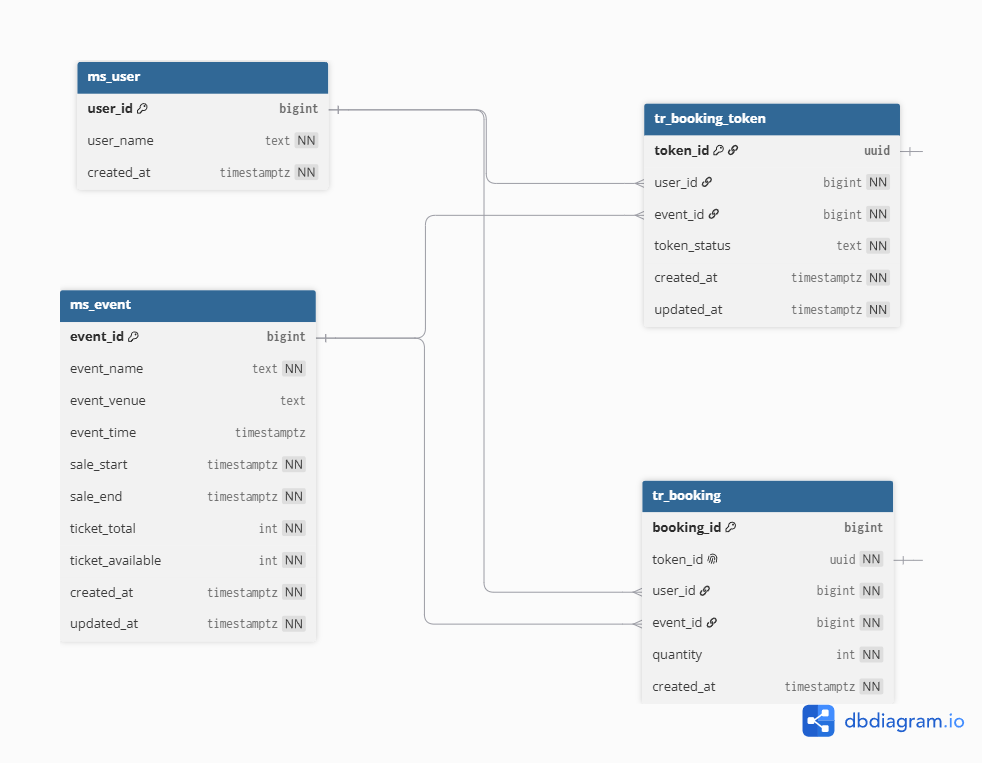
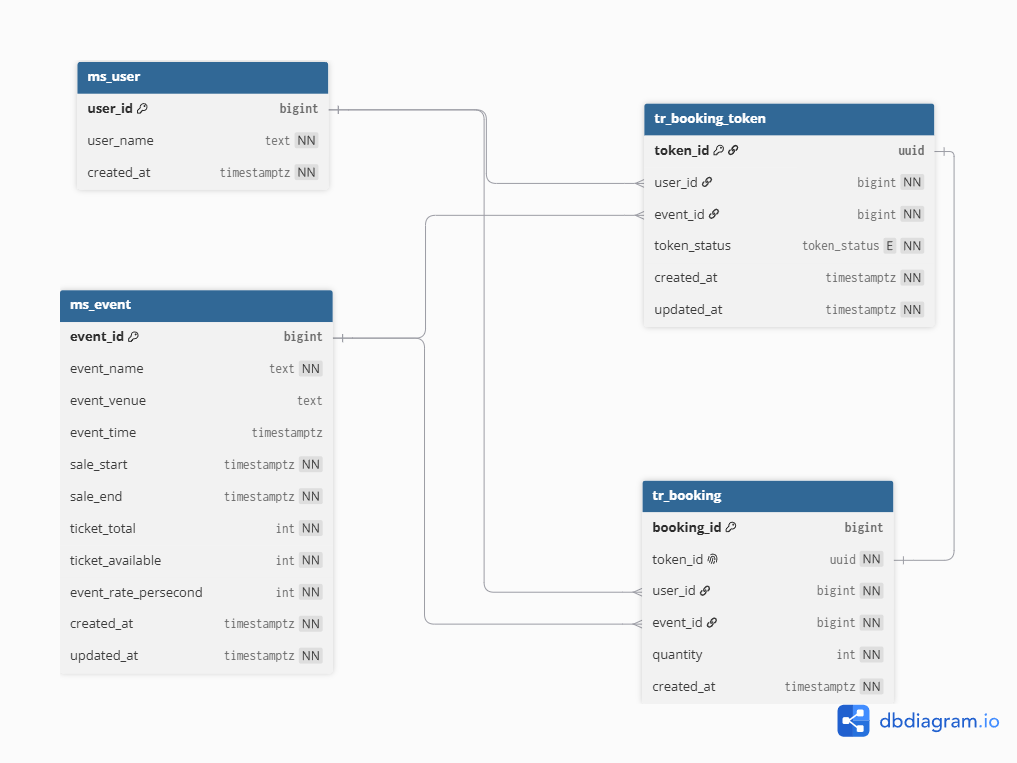
add rate limiter feature, update service, dto, entity, exception, and pom.

diff --git a/src/test/java/com/yudhyapw/concert_book/RateLimitApiTest.java b/src/test/java/com/yudhyapw/concert_book/RateLimitApiTest.java
@@ -1,0 +1,121 @@
+package com.yudhyapw.concert_book;
+
+import com.yudhyapw.concert_book.dto.BookingTokenRequest;
+import com.yudhyapw.concert_book.dto.BookingTokenResponse;
+import com.yudhyapw.concert_book.entity.Event;
+import com.yudhyapw.concert_book.entity.User;
+import com.yudhyapw.concert_book.repository.*;
+import com.yudhyapw.concert_book.service.BookingService;
+
+import org.junit.jupiter.api.BeforeEach;
+import org.junit.jupiter.api.Test;
+import org.springframework.beans.factory.annotation.Autowired;
+import org.springframework.test.web.servlet.client.RestTestClient;
+
+import java.time.OffsetDateTime;
+import java.util.concurrent.CountDownLatch;
+import java.util.concurrent.ExecutorService;
+import java.util.concurrent.Executors;
+import java.util.concurrent.TimeUnit;
+import java.util.concurrent.atomic.AtomicInteger;
+
+import static org.junit.jupiter.api.Assertions.*;
+
+class RateLimitApiTest extends IntegrationTest {
+
+    @Autowired
+    private RestTestClient client;
+    @Autowired
+    private UserRepository userRepository;
+    @Autowired
+    private EventRepository eventRepository;
+    @Autowired
+    private BookingTokenRepository tokenRepository;
+    @Autowired
+    private BookingRepository bookingRepository;
+    @Autowired
+    private BookingService bookingService;
+
+    private Long userId;
+    private Long limitedEventId;
+    private Long otherEventId;
+
+    @BeforeEach
+    void seed() {
+        bookingRepository.deleteAll();
+        tokenRepository.deleteAll();
+        eventRepository.deleteAll();
+        userRepository.deleteAll();
+
+        userId = userRepository.save(new User("Hammerer")).getId();
+        OffsetDateTime now = OffsetDateTime.now();
+        limitedEventId = eventRepository.save(new Event("Hot Drop", "Jakarta",
+                now.plusDays(30), now.minusHours(1), now.plusHours(1), 100,
+                2)).getId();
+        otherEventId = eventRepository.save(new Event("Quiet Show", "Bandung",
+                now.plusDays(30), now.minusHours(1), now.plusHours(1), 100, 
+                1000)).getId();
+    }
+
+    private int requestToken(Long eventId) {
+        return client.post().uri("/api/booking-tokens")
+                .body(new BookingTokenRequest(userId, eventId))
+                .exchange()
+                .returnResult(String.class).getStatus().value();
+    }
+
+    @Test
+    void thirdRapidTokenRequestIsThrottled() {
+        assertEquals(201, requestToken(limitedEventId));
+        assertEquals(201, requestToken(limitedEventId));
+        assertEquals(429, requestToken(limitedEventId));
+    }
+
+    @Test
+    void limitIsPerEventNotGlobal() {
+        assertEquals(201, requestToken(limitedEventId));
+        assertEquals(201, requestToken(limitedEventId));
+        assertEquals(429, requestToken(limitedEventId));   
+        assertEquals(201, requestToken(otherEventId));    
+    }
+
+    @Test
+    void sustainsHundredUsersPerSecond() throws Exception {
+        Long userId = userRepository.save(new User("waver")).getId();
+        OffsetDateTime now = OffsetDateTime.now();
+        Long eventId = eventRepository.save(new Event("Rate Wave", "Jakarta",
+                now.plusDays(30), now.minusHours(1), now.plusHours(1), 10_000, 100)).getId();
+
+        assertEquals(100, runBulk(userId, eventId, 500),
+                "wave 1: 100 simultaneous requests within the configured rate must all pass");
+
+        Thread.sleep(1000);   // next one-second window (bucket refilled)
+
+        assertEquals(100, runBulk(userId, eventId, 500),
+                "wave 2: the following second must sustain another 100 requests");
+    }
+
+    private int runBulk(Long userId, Long eventId, int size) throws Exception {
+        AtomicInteger ok = new AtomicInteger();
+        CountDownLatch startGun = new CountDownLatch(1);
+        CountDownLatch finished = new CountDownLatch(size);
+        try (ExecutorService pool = Executors.newFixedThreadPool(32)) {
+            for (int i = 0; i < size; i++) {
+                pool.submit(() -> {
+                    try {
+                        startGun.await();
+                        bookingService.issueToken(new BookingTokenRequest(userId, eventId));
+                        ok.incrementAndGet();
+                    } catch (Exception e) {
+                        throw new RuntimeException(e);
+                    } finally {
+                        finished.countDown();
+                    }
+                });
+            }
+            startGun.countDown();
+            assertTrue(finished.await(30, TimeUnit.SECONDS));
+        }
+        return ok.get();
+    }
+}

diff --git a/src/main/java/com/yudhyapw/concert_book/service/BookingService.java b/src/main/java/com/yudhyapw/concert_book/service/BookingService.java
@@ -21,13 +21,16 @@ public class BookingService {
     private final EventRepository eventRepository;
     private final BookingTokenRepository tokenRepository;
     private final BookingRepository bookingRepository;
+    private final BookingTokenRateLimiter bookingTokenRateLimiter;
 
     public BookingService(UserRepository userRepository, EventRepository eventRepository,
-            BookingTokenRepository tokenRepository, BookingRepository bookingRepository) {
+            BookingTokenRepository tokenRepository, BookingRepository bookingRepository,
+            BookingTokenRateLimiter bookingTokenRateLimiter) {
         this.userRepository = userRepository;
         this.eventRepository = eventRepository;
         this.tokenRepository = tokenRepository;
         this.bookingRepository = bookingRepository;
+        this.bookingTokenRateLimiter = bookingTokenRateLimiter;
     }
 
     @Transactional
@@ -36,12 +39,18 @@ public class BookingService {
                 .orElseThrow(() -> new ResourceNotFoundException("user " + request.userId() + " not found"));
         Event event = eventRepository.findById(request.eventId())
                 .orElseThrow(() -> new ResourceNotFoundException("event " + request.eventId() + " not found"));
+        
+        // rate limit
+        if (!bookingTokenRateLimiter.tryAcquire(event.getId(), event.getRateLimitPerSecond())) {
+            throw new BookingTokenRateLimitExceededException("too many token requests for this event, retry shortly");
+        }
+
         BookingToken token = tokenRepository.save(new BookingToken(user, event));
         return BookingTokenResponse.from(token);
     }
 
     /**
-     * Submits a booking for a previously issued token. 
+     * Submits a booking for a previously issued token.
      */
     @Transactional
     public SubmitResult submitBooking(BookingRequest request) {
@@ -49,7 +58,7 @@ public class BookingService {
 
         BookingToken token = tokenRepository.findById(request.tokenId())
                 .orElseThrow(() -> new ResourceNotFoundException("token " + request.tokenId() + " not found"));
-                
+
         if (!token.getUser().getId().equals(request.userId())) {
             throw new TokenOwnershipException("token does not belong to user " + request.userId());
         }

diff --git a/src/main/java/com/yudhyapw/concert_book/entity/Event.java b/src/main/java/com/yudhyapw/concert_book/entity/Event.java
@@ -33,6 +33,9 @@ public class Event {
     @Column(name = "ticket_available", nullable = false)
     private int ticketAvailable;
 
+    @Column(name = "event_rate_persecond", nullable = false)
+    private int rateLimitPerSecond;
+
     @Column(name = "created_at", nullable = false, updatable = false)
     private OffsetDateTime createdAt;
 
@@ -43,7 +46,8 @@ public class Event {
     }
 
     public Event(String name, String venue, OffsetDateTime eventTime,
-                 OffsetDateTime saleStart, OffsetDateTime saleEnd, int ticketTotal) {
+            OffsetDateTime saleStart, OffsetDateTime saleEnd, int ticketTotal,
+            int rateLimitPerSecond) {
         this.name = name;
         this.venue = venue;
         this.eventTime = eventTime;
@@ -51,6 +55,7 @@ public class Event {
         this.saleEnd = saleEnd;
         this.ticketTotal = ticketTotal;
         this.ticketAvailable = ticketTotal;
+        this.rateLimitPerSecond = rateLimitPerSecond;
     }
 
     public boolean isOnSaleAt(OffsetDateTime moment) {
@@ -100,6 +105,10 @@ public class Event {
         return ticketAvailable;
     }
 
+    public int getRateLimitPerSecond() {
+        return rateLimitPerSecond;
+    }
+
     public void setName(String name) {
         this.name = name;
     }
@@ -126,6 +135,10 @@ public class Event {
 
     public void setTicketAvailable(int ticketAvailable) {
         this.ticketAvailable = ticketAvailable;
+    }
+
+    public void setRateLimitPerSecond(int rateLimitPerSecond) {
+        this.rateLimitPerSecond = rateLimitPerSecond;
     }
 
 }

diff --git a/src/test/java/com/yudhyapw/concert_book/BookingConcurrencyTest.java b/src/test/java/com/yudhyapw/concert_book/BookingConcurrencyTest.java
@@ -47,9 +47,10 @@ class BookingConcurrencyTest extends IntegrationTest {
 
         int tickets = 5_000;
         int competitors = 10_000;
+        int rateLimitPerSecond = 10_000;
         OffsetDateTime now = OffsetDateTime.now();
         long eventId = eventRepository.save(new Event("Ticket War", "Jakarta",
-                now.plusDays(30), now.minusMinutes(10), now.plusMinutes(10), tickets)).getId();
+                now.plusDays(30), now.minusMinutes(10), now.plusMinutes(10), tickets, rateLimitPerSecond)).getId();
 
         List<UUID> tokens = new ArrayList<>();
         for (int i = 0; i < competitors; i++) {
@@ -109,7 +110,7 @@ class BookingConcurrencyTest extends IntegrationTest {
         int tickets = 10;
         OffsetDateTime now = OffsetDateTime.now();
         long eventId = eventRepository.save(new Event("Ticket War", "Jakarta",
-                now.plusDays(30), now.minusMinutes(10), now.plusMinutes(10), tickets)).getId();
+                now.plusDays(30), now.minusMinutes(10), now.plusMinutes(10), tickets, 100)).getId();
 
 
         Long userId = userRepository.save(new User("double-clicker")).getId();

diff --git a/src/test/java/com/yudhyapw/concert_book/BookingApiTest.java b/src/test/java/com/yudhyapw/concert_book/BookingApiTest.java
@@ -45,11 +45,11 @@ class BookingApiTest extends IntegrationTest {
         userId = userRepository.save(new User("Booker")).getId();
         OffsetDateTime now = OffsetDateTime.now();
         onSaleEventId = eventRepository.save(new Event("On Sale Fest", "Jakarta",
-                now.plusDays(30), now.minusHours(1), now.plusHours(1), 100)).getId();
+                now.plusDays(30), now.minusHours(1), now.plusHours(1), 100, 100)).getId();
         closedEventId = eventRepository.save(new Event("Future Fest", "Jakarta",
-                now.plusDays(30), now.plusDays(1), now.plusDays(2), 100)).getId();
+                now.plusDays(30), now.plusDays(1), now.plusDays(2), 100, 100)).getId();
         tinyEventId = eventRepository.save(new Event("Tiny Fest", "Jakarta",
-                now.plusDays(30), now.minusHours(1), now.plusHours(1), 3)).getId();
+                now.plusDays(30), now.minusHours(1), now.plusHours(1), 3, 100)).getId();
     }
 
     private UUID issueToken(Long forEventId) {

diff --git a/src/main/java/com/yudhyapw/concert_book/service/BookingTokenRateLimiter.java b/src/main/java/com/yudhyapw/concert_book/service/BookingTokenRateLimiter.java
@@ -1,0 +1,24 @@
+package com.yudhyapw.concert_book.service;
+
+import io.github.bucket4j.Bucket;
+import org.springframework.stereotype.Component;
+
+import java.time.Duration;
+import java.util.concurrent.ConcurrentHashMap;
+
+/**
+ * Per-event token-bucket rate limiter guarding booking-token issuance.
+ */
+@Component
+public class BookingTokenRateLimiter {
+
+    private final ConcurrentHashMap<Long, Bucket> buckets = new ConcurrentHashMap<>();
+
+    public boolean tryAcquire(Long eventId, int ratePerSecond) {
+        Bucket bucket = buckets.computeIfAbsent(eventId, id -> Bucket.builder()
+                .addLimit(limit -> limit.capacity(ratePerSecond)
+                        .refillIntervally(ratePerSecond, Duration.ofSeconds(1)))
+                .build());
+        return bucket.tryConsume(1);
+    }
+}

diff --git a/src/test/java/com/yudhyapw/concert_book/EventApiTest.java b/src/test/java/com/yudhyapw/concert_book/EventApiTest.java
@@ -40,9 +40,9 @@ class EventApiTest extends IntegrationTest {
         eventRepository.deleteAll();
         OffsetDateTime now = OffsetDateTime.now();
         eventRepository.save(new Event("Rock Festival", "Jakarta", now.plusDays(30),
-                now.minusHours(1), now.plusHours(1), 100));
+                now.minusHours(1), now.plusHours(1), 100, 100));
         eventRepository.save(new Event("Jazz Night", "Bandung", now.plusDays(45),
-                now.plusDays(1), now.plusDays(2), 50));
+                now.plusDays(1), now.plusDays(2), 50, 100));
     }
 
     @Test

diff --git a/src/main/java/com/yudhyapw/concert_book/exception/GlobalExceptionHandler.java b/src/main/java/com/yudhyapw/concert_book/exception/GlobalExceptionHandler.java
@@ -47,6 +47,12 @@ public class GlobalExceptionHandler {
         return status(HttpStatus.CONFLICT, e.getMessage());
     }
 
+    @ExceptionHandler(BookingTokenRateLimitExceededException.class)
+    public ResponseEntity<ErrorResponse> handleConflict(BookingTokenRateLimitExceededException e) {
+        // 429
+        return status(HttpStatus.TOO_MANY_REQUESTS, e.getMessage());
+    }
+
     private ResponseEntity<ErrorResponse> status(HttpStatus status, String message) {
         return ResponseEntity.status(status).body(ErrorResponse.of(status.value(), message));
     }

diff --git a/src/main/java/com/yudhyapw/concert_book/dto/CreateEventRequest.java b/src/main/java/com/yudhyapw/concert_book/dto/CreateEventRequest.java
@@ -10,5 +10,6 @@ public record CreateEventRequest(@NotBlank String name,
                                  OffsetDateTime eventTime,
                                  @NotNull OffsetDateTime saleStart,
                                  @NotNull OffsetDateTime saleEnd,
-                                 @NotNull @Min(1) Integer ticketTotal) {
+                                 @NotNull @Min(1) Integer ticketTotal,
+                                 @NotNull @Min(1) Integer rateLimitPerSecond) {
 }

diff --git a/src/main/java/com/yudhyapw/concert_book/service/EventService.java b/src/main/java/com/yudhyapw/concert_book/service/EventService.java
@@ -40,7 +40,7 @@ public class EventService {
             throw new IllegalArgumentException("saleEnd must be after saleStart");
         }
         Event event = new Event(request.name(), request.venue(), request.eventTime(),
-                request.saleStart(), request.saleEnd(), request.ticketTotal());
+                request.saleStart(), request.saleEnd(), request.ticketTotal(), request.rateLimitPerSecond());
         return EventResponse.from(eventRepository.save(event));
     }
 }

diff --git a/src/test/java/com/yudhyapw/concert_book/entity/EventTest.java b/src/test/java/com/yudhyapw/concert_book/entity/EventTest.java
@@ -12,7 +12,7 @@ class EventTest {
     private final OffsetDateTime saleEnd = OffsetDateTime.parse("2026-08-10T10:20:00+07:00");
 
     private Event event() {
-        return new Event("Concert", "Jakarta", saleEnd.plusDays(30), saleStart, saleEnd, 10_000);
+        return new Event("Concert", "Jakarta", saleEnd.plusDays(30), saleStart, saleEnd, 10_000, 100);
     }
 
     @Test

diff --git a/src/main/java/com/yudhyapw/concert_book/exception/BookingTokenRateLimitExceededException.java b/src/main/java/com/yudhyapw/concert_book/exception/BookingTokenRateLimitExceededException.java
@@ -1,0 +1,10 @@
+
+package com.yudhyapw.concert_book.exception;
+
+// Status code TOO_MANY_REQUEST 429
+public class BookingTokenRateLimitExceededException extends RuntimeException {
+
+    public BookingTokenRateLimitExceededException (String message) {
+        super(message);
+    }
+}
